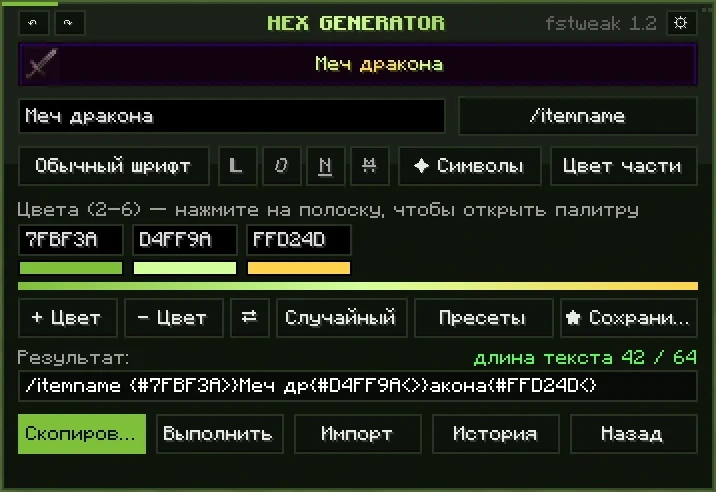
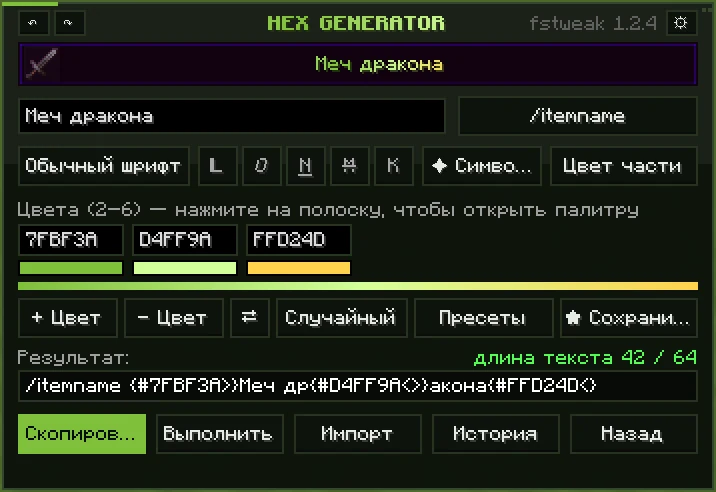
Site: FSTWEAK 1.2.4 — page texts, screenshots, version and notes
- /fstweak/: version 1.2.4 in the three places; texts about the /log window
  (search, upload only by the button) and &k in features, controls, formats,
  FAQ and the logger section; new screenshots from the game: main window with
  the K button, the new inventory icon, and a new "Лог чата" gallery item.
- /assets/img/fstweak-window.webp re-cut from the new main.webp (same 716×492).
- api/fstweak-version.json: 1.2.4 with "what's new" in ru/en/uk, including a
  live §k example; players with older versions get the update notice.

Claude-Session: https://claude.ai/code/session_01NdSGZGmfNCsTrV4NUyDyrG

diff --git a/sites/fspirat.ru/fstweak/index.html b/sites/fspirat.ru/fstweak/index.html
@@ -69,11 +69,11 @@
         <p class="eyebrow eyebrow--mod"><span>Fabric-мод</span></p>
         <h1 class="page-title" id="fst-title">FSTWEAK</h1>
         <p class="fst-tagline">Градиенты, пресеты и&nbsp;логи чата&nbsp;— прямо в&nbsp;Minecraft</p>
-        <p class="page-lead">Генератор градиентов с&nbsp;сайта, только внутри Minecraft: пишешь текст, выбираешь цвета и&nbsp;сразу видишь название предмета. Команду можно скопировать или выполнить одной кнопкой. А&nbsp;<code>/log</code> сохраняет чат и&nbsp;даёт на&nbsp;него ссылку.</p>
+        <p class="page-lead">Генератор градиентов с&nbsp;сайта, только внутри Minecraft: пишешь текст, выбираешь цвета и&nbsp;сразу видишь название предмета. Команду можно скопировать или выполнить одной кнопкой. А&nbsp;<code>/log</code> показывает чат прямо в&nbsp;игре и&nbsp;по&nbsp;кнопке сохраняет его со&nbsp;ссылкой.</p>
 
         <dl class="fst-facts">
           <!-- version: keep in sync with /api/fstweak-version.json -->
-          <div><dt>Версия</dt><dd class="fst-facts-ver">1.2.3</dd></div>
+          <div><dt>Версия</dt><dd class="fst-facts-ver">1.2.4</dd></div>
           <div><dt>Minecraft</dt><dd>1.21.11&nbsp;· 26.1.2&nbsp;· 26.2</dd></div>
           <div><dt>Загрузчик</dt><dd>Fabric, только клиент</dd></div>
           <div><dt>Языки</dt><dd>RU&nbsp;· EN&nbsp;· UK</dd></div>
@@ -81,7 +81,7 @@
 
         <div class="page-actions">
           <!-- version: keep in sync with /api/fstweak-version.json -->
-          <a class="btn btn-primary" href="#download"><svg class="fst-btn-ico" width="14" height="14" aria-hidden="true" focusable="false"><use href="#i-dl"/></svg>Скачать 1.2.3</a>
+          <a class="btn btn-primary" href="#download"><svg class="fst-btn-ico" width="14" height="14" aria-hidden="true" focusable="false"><use href="#i-dl"/></svg>Скачать 1.2.4</a>
           <a class="btn btn-secondary" href="/hex_generator/">Веб-версия генератора</a>
         </div>
         <p class="fst-jump">
@@ -91,7 +91,7 @@
       </div>
 
       <figure class="fst-shot">
-        <img src="/assets/img/fstweak-window.webp" width="716" height="492" loading="lazy" decoding="async"
+        <img src="/assets/img/fstweak-window.webp?v=1.2.4" width="716" height="492" loading="lazy" decoding="async"
              alt="Окно HEX GENERATOR в игре: название «Меч дракона» в предпросмотре, три цвета градиента и готовая команда /itemname">
         <figcaption>Скриншот из игры: окно <span lang="en">HEX GENERATOR</span></figcaption>
       </figure>
@@ -107,7 +107,7 @@
         <li class="pane fst-card">
           <span class="fst-ico" aria-hidden="true"><svg viewBox="0 0 7 7" width="21" height="21" focusable="false" shape-rendering="crispEdges"><path fill="#7FBF3A" d="M3 0h1v2H3zM2 2h3v1H2z"/><path fill="#D4FF9A" d="M0 3h7v1H0z"/><path fill="#FFD24D" d="M2 4h3v1H2zM3 5h1v2H3z"/></svg></span>
           <h3 class="fst-card-title" lang="en">HEX GENERATOR</h3>
-          <p class="fst-card-text">Градиент до&nbsp;6 цветов, формат части текста, 12 шрифтов, символы и&nbsp;87 палитр. Все RGB-форматы: AgeMagic, MiniMessage, &amp;#, BBCode и&nbsp;другие.</p>
+          <p class="fst-card-text">Градиент до&nbsp;6 цветов, формат части текста и&nbsp;«бегущий» <code>&amp;k</code>, 12 шрифтов, символы и&nbsp;87 палитр. Все RGB-форматы: AgeMagic, MiniMessage, &amp;#, BBCode и&nbsp;другие.</p>
           <p class="fst-how">✦ в&nbsp;инвентаре или <kbd>H</kbd></p>
           <p class="fst-card-link"><a class="text-link" href="/hex_generator/">Открыть веб-версию<svg class="px-arrow" width="10" height="14" aria-hidden="true" focusable="false"><use href="#i-next"/></svg></a></p>
           <div class="fst-card-actions">
@@ -117,7 +117,7 @@
         <li class="pane fst-card">
           <span class="fst-ico" aria-hidden="true"><svg viewBox="0 0 8 8" width="24" height="24" focusable="false" shape-rendering="crispEdges"><path fill="#C4CEC5" d="M0 0h8v1H0zM0 1h1v5H0zM7 1h1v5H7zM0 6h8v1H0zM1 7h2v1H1z"/><path fill="#55FF55" d="M2 2h4v1H2zM2 4h3v1H2z"/></svg></span>
           <h3 class="fst-card-title">Логгер чата /log</h3>
-          <p class="fst-card-text">Одна команда сохраняет чат с&nbsp;цветами и&nbsp;временем на&nbsp;fspirat.xyz. В&nbsp;чат придёт ссылка, по&nbsp;которой лог можно открыть, найти нужное и&nbsp;скачать.</p>
+          <p class="fst-card-text"><code>/log</code> открывает чат прямо в&nbsp;игре: поиск, цвета и&nbsp;время. Кнопка «Выгрузить на&nbsp;сайт» сохраняет его на&nbsp;fspirat.xyz и&nbsp;даёт ссылку, по&nbsp;которой лог можно открыть, найти нужное и&nbsp;скачать.</p>
           <p class="fst-how"><code>/log</code> · <code class="fst-nw">/log 200</code></p>
           <div class="fst-card-actions">
             <button class="btn btn-secondary btn-sm" type="button" data-open="m-log">Подробнее о&nbsp;логгере</button>
@@ -140,35 +140,36 @@
     <div class="wrap">
       <div class="section-head">
         <h2 id="screens-title">Скриншоты</h2>
-        <p class="section-sub">версия 1.2</p>
+        <p class="section-sub">версия 1.2.4</p>
       </div>
       <div class="fst-gallery-grid">
         <figure class="fst-gallery" id="gMain">
           <div class="fst-stage" id="gView">
-            <img src="/fstweak/img/main.webp" width="908" height="568" loading="lazy" decoding="async" alt="Главное окно: текст, цвета, формат и готовая команда">
+            <img src="/fstweak/img/main.webp?v=1.2.4" width="908" height="568" loading="lazy" decoding="async" alt="Главное окно: текст, цвета, формат и готовая команда">
           </div>
           <figcaption class="fst-gbar">
             <p class="fst-gcap" aria-live="polite" aria-atomic="true">
-              <span class="visually-hidden" id="gCountSr">Скриншот 1 из 8.</span>
-              <span class="fst-gline"><span class="fst-gcount" id="gCount" aria-hidden="true">1 / 8</span> <span class="fst-gtitle" id="gTitle">Главное окно</span></span>
+              <span class="visually-hidden" id="gCountSr">Скриншот 1 из 9.</span>
+              <span class="fst-gline"><span class="fst-gcount" id="gCount" aria-hidden="true">1 / 9</span> <span class="fst-gtitle" id="gTitle">Главное окно</span></span>
               <span class="fst-gtext" id="gText">Текст, цвета, формат и готовая команда</span>
             </p>
             <div class="fst-gnav">
-              <a class="text-link fst-gorig" id="gOrig" href="/fstweak/img/main.webp">Открыть оригинал</a>
+              <a class="text-link fst-gorig" id="gOrig" href="/fstweak/img/main.webp?v=1.2.4">Открыть оригинал</a>
               <button class="fst-arrow" type="button" id="gPrev" aria-label="Предыдущий скриншот"><svg width="10" height="14" aria-hidden="true" focusable="false"><use href="#i-prev"/></svg></button>
               <button class="fst-arrow" type="button" id="gNext" aria-label="Следующий скриншот"><svg width="10" height="14" aria-hidden="true" focusable="false"><use href="#i-next"/></svg></button>
             </div>
           </figcaption>
         </figure>
         <div class="fst-dots" id="gDots" role="group" aria-label="Выбор скриншота">
-          <button class="fst-dot" type="button" aria-pressed="true" data-shot="/fstweak/img/main.webp" data-w="908" data-h="568" data-title="Главное окно" data-text="Текст, цвета, формат и готовая команда"><span class="fst-dot-n">1</span> <span class="fst-dot-t">Главное окно</span></button>
+          <button class="fst-dot" type="button" aria-pressed="true" data-shot="/fstweak/img/main.webp?v=1.2.4" data-w="908" data-h="568" data-title="Главное окно" data-text="Текст, цвета, формат и готовая команда"><span class="fst-dot-n">1</span> <span class="fst-dot-t">Главное окно</span></button>
           <button class="fst-dot" type="button" aria-pressed="false" data-shot="/fstweak/img/presets.webp" data-w="960" data-h="600" data-title="Пресеты" data-text="87 палитр по категориям и свои пресеты"><span class="fst-dot-n">2</span> <span class="fst-dot-t">Пресеты</span></button>
           <button class="fst-dot" type="button" aria-pressed="false" data-shot="/fstweak/img/palette.webp" data-w="924" data-h="578" data-title="Палитра" data-text="Ползунки HSV, быстрые и недавние цвета"><span class="fst-dot-n">3</span> <span class="fst-dot-t">Палитра</span></button>
           <button class="fst-dot" type="button" aria-pressed="false" data-shot="/fstweak/img/symbols.webp" data-w="934" data-h="584" data-title="Символы" data-text="19 тем, избранные и недавние"><span class="fst-dot-n">4</span> <span class="fst-dot-t">Символы</span></button>
           <button class="fst-dot" type="button" aria-pressed="false" data-shot="/fstweak/img/format.webp" data-w="1020" data-h="638" data-title="Формат" data-text="Команды AgeMagic и все RGB-форматы"><span class="fst-dot-n">5</span> <span class="fst-dot-t">Формат</span></button>
           <button class="fst-dot" type="button" aria-pressed="false" data-shot="/fstweak/img/chat.webp" data-w="720" data-h="250" data-title="Чат" data-text="Пресет с кнопкой [+] и команда /log"><span class="fst-dot-n">6</span> <span class="fst-dot-t">Чат</span></button>
-          <button class="fst-dot" type="button" aria-pressed="false" data-shot="/fstweak/img/inventory.webp" data-w="796" data-h="498" data-title="Кнопка в инвентаре" data-text="Перетаскивается с Ctrl"><span class="fst-dot-n">7</span> <span class="fst-dot-t">Кнопка в&nbsp;инвентаре</span></button>
-          <button class="fst-dot" type="button" aria-pressed="false" data-shot="/fstweak/img/settings.webp" data-w="931" data-h="582" data-title="Настройки" data-text="Темы, подсказки, кнопка"><span class="fst-dot-n">8</span> <span class="fst-dot-t">Настройки</span></button>
+          <button class="fst-dot" type="button" aria-pressed="false" data-shot="/fstweak/img/log.webp" data-w="1200" data-h="896" data-title="Лог чата" data-text="Окно /log: поиск, цвета и время, на сайт — по кнопке"><span class="fst-dot-n">7</span> <span class="fst-dot-t">Лог чата</span></button>
+          <button class="fst-dot" type="button" aria-pressed="false" data-shot="/fstweak/img/inventory.webp?v=1.2.4" data-w="796" data-h="498" data-title="Кнопка в инвентаре" data-text="Перетаскивается с Ctrl"><span class="fst-dot-n">8</span> <span class="fst-dot-t">Кнопка в&nbsp;инвентаре</span></button>
+          <button class="fst-dot" type="button" aria-pressed="false" data-shot="/fstweak/img/settings.webp" data-w="931" data-h="582" data-title="Настройки" data-text="Темы, подсказки, кнопка"><span class="fst-dot-n">9</span> <span class="fst-dot-t">Настройки</span></button>
         </div>
       </div>
       <noscript><p class="notice fst-noscript">Листать скриншоты можно с&nbsp;включённым JavaScript.</p></noscript>
@@ -180,7 +181,7 @@
       <div class="section-head">
         <h2 id="download-title">Скачать</h2>
         <!-- version: keep in sync with /api/fstweak-version.json -->
-        <p class="section-sub">FSTWEAK 1.2.3 · Fabric · только&nbsp;клиент</p>
+        <p class="section-sub">FSTWEAK 1.2.4 · Fabric · только&nbsp;клиент</p>
       </div>
       <p class="fst-dl-lead">Выбери сборку под свою версию Minecraft.</p>
       <ul class="fst-builds">
@@ -244,11 +245,11 @@
     <div class="wrap">
       <div class="section-head">
         <h2 id="log-title">Логгер чата /log</h2>
-        <p class="section-sub fst-new-sub">новое в&nbsp;1.2</p>
+        <p class="section-sub fst-new-sub">окно с&nbsp;поиском&nbsp;— новое в&nbsp;1.2.4</p>
       </div>
       <div class="fst-log-grid">
         <div class="fst-log-main">
-          <p class="fst-text">Мод запоминает чат с&nbsp;начала игры. Команда <code>/log</code> отправляет его на&nbsp;fspirat.xyz и&nbsp;присылает ссылку. Удобно для жалоб, сделок и&nbsp;споров: вместо скриншотов отправляешь одну ссылку.</p>
+          <p class="fst-text">Мод запоминает чат с&nbsp;начала игры. Команда <code>/log</code> открывает его в&nbsp;окне прямо в&nbsp;игре: прокрутка, поиск (<kbd>Ctrl</kbd>+<kbd>F</kbd>), цвета и&nbsp;время. Кнопка «Выгрузить на&nbsp;сайт» отправляет на&nbsp;fspirat.xyz ровно то, что в&nbsp;окне, и&nbsp;даёт ссылку. Удобно для жалоб, сделок и&nbsp;споров: вместо скриншотов отправляешь одну ссылку.</p>
           <div class="notice fst-privacy">
             <div>
               <p><strong>Кто видит лог.</strong> Лог открывается по&nbsp;ссылке: прочитать его может любой, у&nbsp;кого она есть. Ссылка случайная, угадать её трудно,&nbsp;— но&nbsp;не&nbsp;публикуй её, если переписка личная.</p>
@@ -257,6 +258,7 @@
             </div>
           </div>
           <ul class="chip-list fst-log-facts" aria-label="Коротко о логах">
+            <li>на&nbsp;сайт&nbsp;— только по&nbsp;кнопке</li>
             <li>доступ по&nbsp;ссылке</li>
             <li>цвета и&nbsp;время сохраняются</li>
             <li>поиск и&nbsp;.txt</li>
@@ -267,18 +269,18 @@
         <div class="fst-log-side">
           <h3 class="fst-h3 fst-h3--first">Команды</h3>
           <dl class="fst-cmds">
-            <div><dt><code>/log</code></dt><dd>сохранить весь накопленный чат</dd></div>
-            <div><dt><code class="fst-nw">/log 200</code></dt><dd>только последние 200 сообщений</dd></div>
+            <div><dt><code>/log</code></dt><dd>открыть весь накопленный чат</dd></div>
+            <div><dt><code class="fst-nw">/log 200</code></dt><dd>открыть только последние 200 сообщений</dd></div>
             <div><dt><code class="fst-nw">/log clear</code></dt><dd>очистить накопленное и&nbsp;начать заново</dd></div>
             <div><dt><code>/chatlog</code></dt><dd>то же самое, если <code>/log</code> занят сервером</dd></div>
           </dl>
           <figure class="fst-chat-fig">
             <div class="fst-chat">
               <p><span class="mc-muted">&gt; /log 200</span></p>
-              <p><span class="mc-green">[FSLOG]</span> <span class="mc-gray">Сохраняю 200 сообщ. …</span></p>
-              <p><span class="mc-green">[FSLOG] Сохранено 200 сообщ.:</span> <span class="mc-link">fspirat.xyz/log/?id=…</span> <span class="mc-gray">[копировать]</span></p>
+              <p><span class="mc-gray">Окно «Лог чата»: 200 сообщ. · поиск · «Выгрузить на&nbsp;сайт»</span></p>
+              <p><span class="mc-green">Сохранено 200 сообщ.:</span> <span class="mc-link">fspirat.xyz/log/?id=…</span> <span class="mc-gray">[Открыть ссылку] [Копировать]</span></p>
             </div>
-            <figcaption>Пример ответа в&nbsp;чате</figcaption>
+            <figcaption>Что будет после <code class="fst-nw">/log 200</code> и&nbsp;кнопки «Выгрузить на&nbsp;сайт»</figcaption>
           </figure>
         </div>
       </div>
@@ -329,7 +331,7 @@
     <dialog class="fst-sheet" id="m-log" aria-labelledby="m-log-t">
       <div class="fst-sheet-head"><h2 id="m-log-t">Логгер чата</h2><button class="x" type="button" data-close aria-label="Закрыть"><svg width="16" height="16" aria-hidden="true" focusable="false"><use href="#i-x"/></svg></button></div>
       <div class="fst-sheet-body">
-        <p>Логгер встроен в&nbsp;FSTWEAK 1.2 и&nbsp;работает сам: ничего настраивать не&nbsp;нужно. Мод хранит до&nbsp;5000 последних сообщений текущей игры. Чат никуда не&nbsp;отправляется, пока ты сам не&nbsp;напишешь <code>/log</code>.</p>
+        <p>Логгер встроен в&nbsp;FSTWEAK 1.2 и&nbsp;работает сам: ничего настраивать не&nbsp;нужно. Мод хранит до&nbsp;5000 последних сообщений текущей игры. Команда <code>/log</code> только открывает окно с&nbsp;чатом: на&nbsp;сайт он уходит, лишь когда ты нажмёшь «Выгрузить на&nbsp;сайт».</p>
         <h3>Кто видит лог</h3>
         <p>Лог открывается по&nbsp;ссылке: прочитать его может любой, у&nbsp;кого она есть. Ссылка случайная, угадать её трудно,&nbsp;— но&nbsp;не&nbsp;публикуй её, если переписка личная. Публичного списка логов на&nbsp;сайте нет.</p>
         <p>Владелец сайта видит список всех логов и&nbsp;может открыть, закрепить или удалить любой из&nbsp;них.</p>
@@ -369,8 +371,10 @@
       <div class="fst-sheet-head"><h2 id="m-features-t">Все возможности</h2><button class="x" type="button" data-close aria-label="Закрыть"><svg width="16" height="16" aria-hidden="true" focusable="false"><use href="#i-x"/></svg></button></div>
       <div class="fst-sheet-body">
         <ul class="fst-feats">
+          <li class="fst-feat"><h3>Окно лога с&nbsp;поиском <span class="fst-v"><span aria-hidden="true">1.2.4</span><span class="visually-hidden">новое в версии 1.2.4</span></span></h3><p><code>/log</code> показывает чат прямо в&nbsp;игре: поиск (<kbd>Ctrl</kbd>+<kbd>F</kbd>), цвета, время. На&nbsp;сайт&nbsp;— только по&nbsp;кнопке.</p></li>
+          <li class="fst-feat"><h3>«Бегущий» текст &amp;k <span class="fst-v"><span aria-hidden="true">1.2.4</span><span class="visually-hidden">новое в версии 1.2.4</span></span></h3><p>Кнопка K или <code>&amp;k</code> прямо в&nbsp;тексте (<code>&amp;r</code>&nbsp;— сброс). Сочетается с&nbsp;цветом, градиентом и&nbsp;стилями.</p></li>
           <li class="fst-feat"><h3>Новый интерфейс <span class="fst-v"><span aria-hidden="true">1.2</span><span class="visually-hidden">новое в версии 1.2</span></span></h3><p>Тема «Изумрудная» в&nbsp;стиле сайта. Окна выглядят одинаково в&nbsp;обычном Minecraft и&nbsp;в&nbsp;LabyMod.</p></li>
-          <li class="fst-feat"><h3>Логгер чата /log <span class="fst-v"><span aria-hidden="true">1.2</span><span class="visually-hidden">новое в версии 1.2</span></span></h3><p>Чат с&nbsp;цветами и&nbsp;временем сохраняется на&nbsp;fspirat.xyz, в&nbsp;чат приходит ссылка.</p></li>
+          <li class="fst-feat"><h3>Логгер чата /log <span class="fst-v"><span aria-hidden="true">1.2</span><span class="visually-hidden">новое в версии 1.2</span></span></h3><p>Чат с&nbsp;цветами и&nbsp;временем сохраняется на&nbsp;fspirat.xyz, ты получаешь ссылку.</p></li>
           <li class="fst-feat"><h3>87 палитр <span class="fst-v"><span aria-hidden="true">1.2</span><span class="visually-hidden">новое в версии 1.2</span></span></h3><p>Все палитры с&nbsp;сайта по&nbsp;категориям: Minecraft, тёплые, холодные, природа, яркие, пастель, тёмные.</p></li>
           <li class="fst-feat"><h3>12 шрифтов <span class="fst-v"><span aria-hidden="true">1.2</span><span class="visually-hidden">новое в версии 1.2</span></span></h3><p>Обычный, Small Caps и&nbsp;10 стилей Unicode. Клик переключает шрифт вперёд, <kbd>Shift</kbd> + клик назад.</p></li>
           <li class="fst-feat"><h3>Символы по&nbsp;темам <span class="fst-v"><span aria-hidden="true">1.2</span><span class="visually-hidden">новое в версии 1.2</span></span></h3><p>19 тем, избранные (<kbd>Shift</kbd> + клик) и&nbsp;недавние.</p></li>
@@ -381,7 +385,7 @@
           <li class="fst-feat"><h3>Все RGB-форматы</h3><p>AgeMagic (<code>/itemname</code>, <code>/itemlore</code>, <code class="fst-nw">/sponsor prefix</code>), Nickname, Chat, Legacy, Console, BBCode, MiniMessage, BirdFlop.</p></li>
           <li class="fst-feat"><h3>Название из&nbsp;предмета</h3><p>Клик по&nbsp;иконке в&nbsp;предпросмотре загрузит название предмета из&nbsp;руки вместе с&nbsp;цветами.</p></li>
           <li class="fst-feat"><h3>Палитра в&nbsp;игре</h3><p>Ползунки HSV, 30 быстрых цветов и&nbsp;недавние.</p></li>
-          <li class="fst-feat"><h3>Формат части текста</h3><p>Жирный, курсив, подчёркнутый, зачёркнутый: для всего текста или для выделенного куска.</p></li>
+          <li class="fst-feat"><h3>Формат части текста</h3><p>Жирный, курсив, подчёркнутый, зачёркнутый и&nbsp;«бегущий» <code>&amp;k</code>: для всего текста или для выделенного куска.</p></li>
           <li class="fst-feat"><h3>Свои пресеты</h3><p>Сохраняй, переименовывай, переставляй и&nbsp;делись.</p></li>
           <li class="fst-feat"><h3>История и&nbsp;импорт</h3><p>10 последних команд. Готовая команда из&nbsp;буфера разбирается обратно в&nbsp;редактор.</p></li>
           <li class="fst-feat"><h3>Счётчик длины</h3><p>Показывает, сколько символов осталось до&nbsp;лимита команды.</p></li>
@@ -406,7 +410,8 @@
             <tr><td>Взять название из&nbsp;предмета</td><td>Клик по&nbsp;иконке предмета в&nbsp;предпросмотре</td></tr>
             <tr><td>Сменить шрифт</td><td>Клик вперёд, <kbd>Shift</kbd> + клик назад</td></tr>
             <tr><td>Символ в&nbsp;избранное</td><td><kbd>Shift</kbd> + клик по&nbsp;символу</td></tr>
-            <tr><td>Сохранить чат</td><td><code>/log</code>, <code class="fst-nw">/log 200</code>, <code class="fst-nw">/log clear</code></td></tr>
+            <tr><td>Лог чата</td><td><code>/log</code>, <code class="fst-nw">/log 200</code>, <code class="fst-nw">/log clear</code>; поиск в&nbsp;окне&nbsp;— <kbd>Ctrl</kbd>+<kbd>F</kbd></td></tr>
+            <tr><td>«Бегущий» текст</td><td>Кнопка <b>K</b> или <code>&amp;k</code> в&nbsp;тексте, <code>&amp;r</code>&nbsp;— сброс</td></tr>
           </tbody>
         </table>
       </div>
@@ -433,7 +438,7 @@
             <tr role="row"><td role="cell">BirdFlop</td><td role="cell" data-label="Лимит">256</td><td role="cell" class="fst-ex">свой шаблон: $1…$6, $f, $c</td></tr>
           </tbody>
         </table>
-        <p class="fst-after-list">Свой цвет или формат для части текста записывается цветом каждой буквы, поэтому команда заметно длиннее. Счётчик это покажет.</p>
+        <p class="fst-after-list">Формат части текста (жирный, <code>&amp;k</code>…) в&nbsp;<code>/itemname</code> и&nbsp;<code>/itemlore</code> записывается короткими метками на&nbsp;границах. Свой цвет для части текста записывается цветом каждой буквы, поэтому команда заметно длиннее. Счётчик это покажет. В&nbsp;BBCode тега для <code>&amp;k</code> нет: текст останется, эффекта не&nbsp;будет. Разрешён ли <code>&amp;k</code>, решает сервер.</p>
       </div>
     </dialog>
 
@@ -443,7 +448,7 @@
         <details><summary>Где хранятся настройки и&nbsp;пресеты?</summary><p>В&nbsp;файле <code>config/fstweak.properties</code>. Там&nbsp;же положение кнопки, свои пресеты и&nbsp;история команд.</p></details>
         <details><summary>Кнопка перекрывает другой мод</summary><p>Зажми <kbd>Ctrl</kbd> и&nbsp;перетащи её. Вернуть на&nbsp;место можно в&nbsp;настройках генератора (⚙).</p></details>
         <details><summary>Сервер пишет, что текст слишком длинный</summary><p>Следи за&nbsp;счётчиком под результатом. Свой цвет или формат части текста сильно удлиняет команду.</p></details>
-        <details><summary>Кто видит мой чат после /log?</summary><p>Любой, у&nbsp;кого есть ссылка на&nbsp;лог. Ссылка случайная, угадать её трудно,&nbsp;— но&nbsp;не&nbsp;публикуй её, если переписка личная. Владелец сайта видит список всех логов и&nbsp;может открыть, закрепить или удалить любой из&nbsp;них. Без команды <code>/log</code> чат никуда не&nbsp;отправляется. Лог хранится 30 дней и&nbsp;затем удаляется автоматически; закреплённый&nbsp;— пока его не&nbsp;открепят.</p></details>
+        <details><summary>Кто видит мой чат после /log?</summary><p>Любой, у&nbsp;кого есть ссылка на&nbsp;лог. Ссылка случайная, угадать её трудно,&nbsp;— но&nbsp;не&nbsp;публикуй её, если переписка личная. Владелец сайта видит список всех логов и&nbsp;может открыть, закрепить или удалить любой из&nbsp;них. Пока ты не&nbsp;нажмёшь «Выгрузить на&nbsp;сайт» в&nbsp;окне <code>/log</code>, чат никуда не&nbsp;отправляется. Лог хранится 30 дней и&nbsp;затем удаляется автоматически; закреплённый&nbsp;— пока его не&nbsp;открепят.</p></details>
         <details><summary>Нужен ли мод на&nbsp;сервере?</summary><p>Нет, FSTWEAK работает только на&nbsp;клиенте и&nbsp;подходит для любого сервера.</p></details>
       </div>
     </dialog>

diff --git a/sites/fspirat.ru/index.html b/sites/fspirat.ru/index.html
@@ -125,7 +125,7 @@
 
         <li class="card card--mod">
           <div class="card-preview shot">
-            <img src="assets/img/fstweak-window.webp" width="716" height="492" loading="lazy" decoding="async"
+            <img src="assets/img/fstweak-window.webp?v=1.2.4" width="716" height="492" loading="lazy" decoding="async"
                  alt="Скриншот FSTWEAK в игре: окно HEX GENERATOR с названием «Меч дракона», цветами градиента и готовой командой /itemname">
           </div>
           <div class="card-body">
